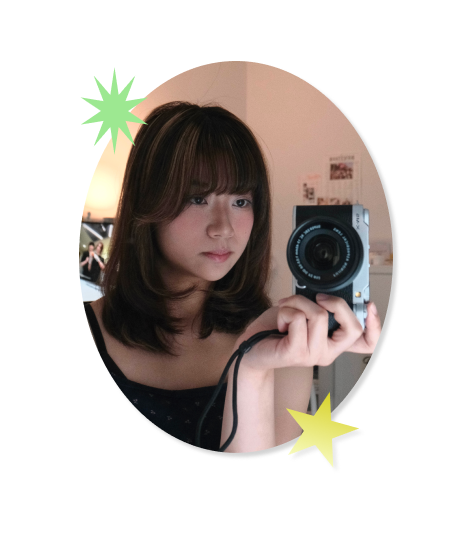
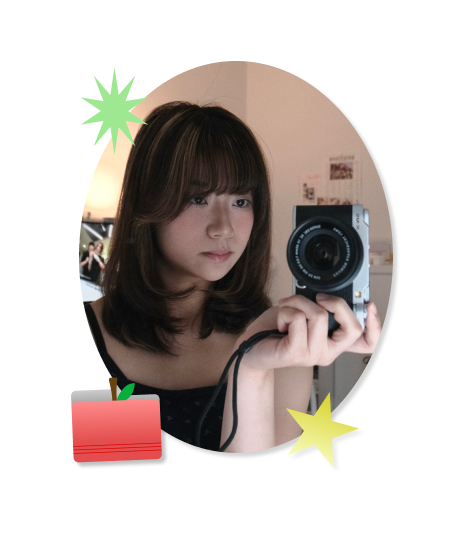
( ◕ ◞ ◕ ) auto commit

Changed region(s): [[0.1483, 0.6815, 0.3559, 0.8889]]

diff --git a/index.html b/index.html
@@ -30,20 +30,24 @@
     .container {
       width: 1200px;
       margin: 0 auto;
+      box-sizing: border-box;
     }
     nav {
       background-color: #D9D9D9;
-      height: 40px;
-      line-height: 40px;
+      height: 45px;
+      line-height: 45px;
       padding: 10px 40px;
       font-size: 17px;
-      text-align: right;
+      display: flex;
+      align-items: center;
+      justify-content: space-between;
       top: 0;
       position: sticky;
     }
-
+  
     nav ul {
       list-style-type: none;
+      display: flex;
       margin: 0;
       padding: 0;
     }
@@ -52,6 +56,7 @@
       display: inline;
       margin-left: 45px;
     }
+    
     .hero-section {
       display: grid;
       grid-template-columns: 45% 55%;
@@ -191,12 +196,46 @@
       width: 400px;
       max-width: 100%;
     }
+    
+    .graphics-section {
+      padding: 60px 80px 70px 80px;
+    }
+    
+    .graphics-heading {
+      text-align: center;
+      font-size: 35px;
+      margin: 0 0 80px 0;
+    }
+    
+    .graphics-grid {
+      display: grid;
+      grid-template-columns: 50% 50%;
+      gap: 50px;
+    }
+    
+
+    .graphic-pic img {
+      max-width: 100%;
+      max-height: 350px;
+      object-fit: contain;
+      border-radius: 10px;
+      box-shadow: 0 8px 18px rgba(0, 0, 0, 0.5);
+      display: block;
+      margin: 0 auto;
+    }
+    
+    .graphic-caption {
+      font-size: 18px;
+      margin: 18px 0 50px 0;
+      text-align: center;
+    }
   </style>
   </head>
   <body>
     <div class="container">
       <nav>
         <ul>
+          <img src="AppleFolder.png" width="42" alt="Apple Folder">
           <li><a href="#home">home</a></li>
           <li><a href="#projects">projects</a></li>
           <li><a href="#about">about</a></li>
@@ -257,6 +296,29 @@
         <p>Email: <a href="mailto:chloeleehc@gmail.com">chloeleehc@gmail.com</a><br>Instagram: <a href="https://www.instagram.com/chloeleeee._" target="_blank">@chloeleeee._</a></p>
         </div>
         </div>
+      </section>
+    <div class="grey-divider"></div>
+      
+    <section id="graphic" class="graphics-section">
+      <h2 class="graphics-heading">GRAPHICS</h2>
+      <div class="graphics-grid">
+        <div class="graphics-card">
+          <a href="website-redesign.html">
+          <div class="graphic-pic">
+            <img src="DesktopMockup.png" alt="Website Redesign">
+            </div>
+          <p class="graphic-caption">Website Redesign</p>
+          </a>
+      </div>
+      <div class="graphic-card">
+        <a href="magazine-design.html">
+        <div class="graphic-pic">
+          <img src="MagazineMockup.png" alt="Magazine Design">
+          </div>
+        <p class="graphic-caption">Magazine Design</p>
+        </a>
+      </div>
+      </div>
       </section>
     <div class="grey-divider"></div>
     </div>
